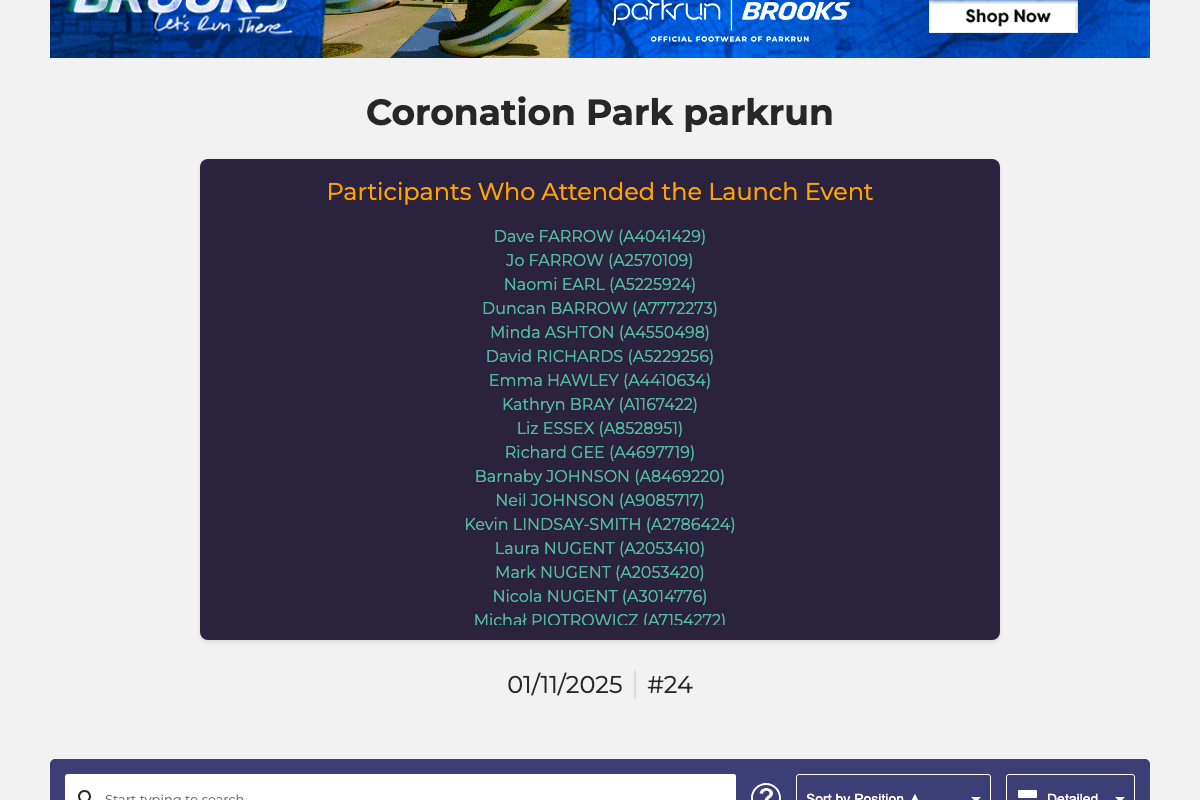
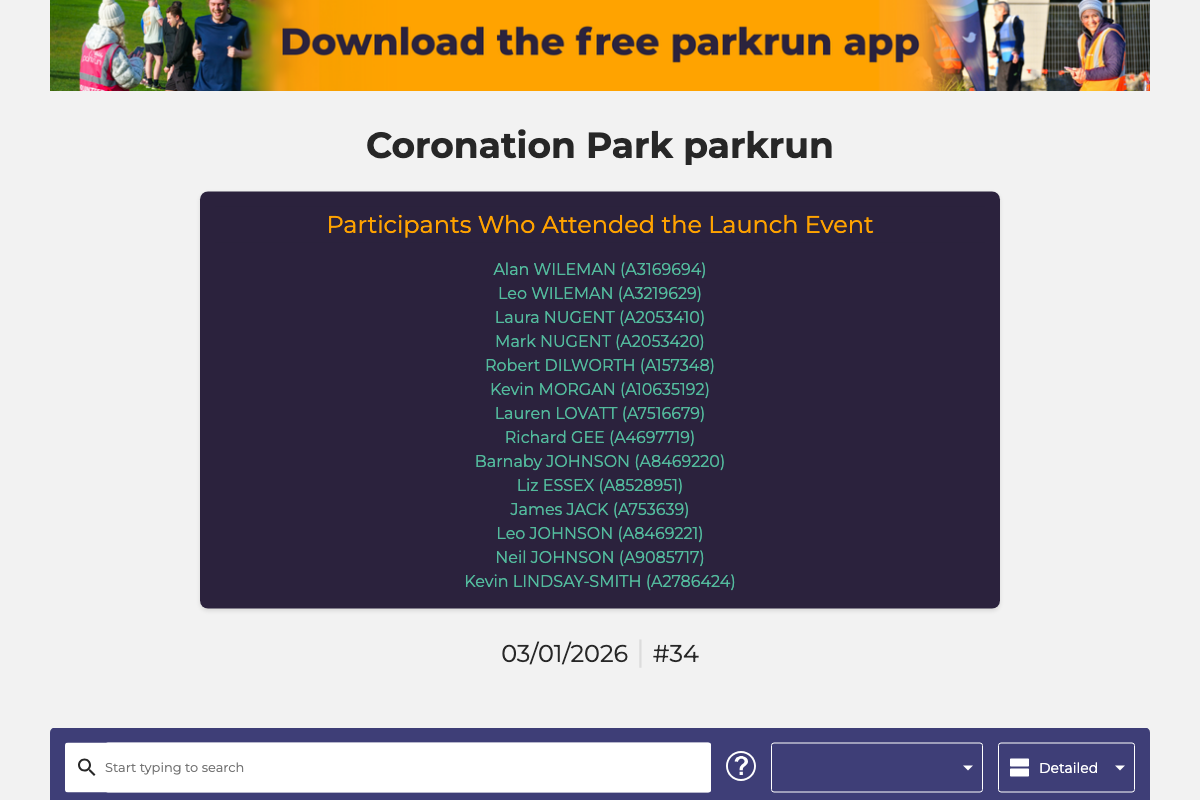
Add parkrun Annual Summary script to documentation
- Add parkrun-annual-summary.user.js entry to docs/_data/scripts.yml
- Document Annual Summary feature on docs/scripts.md
- Add screenshot generation config for Annual Summary
- Generate updated screenshots for all scripts including new Annual Summary

Changed region(s): [[0.0308, 0.0, 0.9558, 0.875], [0.0308, 0.9062, 0.9558, 1.0]]

diff --git a/scripts/generate-screenshots.ts b/scripts/generate-screenshots.ts
@@ -55,6 +55,14 @@ const screenshotConfigs: ScreenshotConfig[] = [
     viewport: { width: 1200, height: 800 },
   },
   {
+    name: 'parkrun-annual-summary',
+    url: 'https://www.parkrun.com.au/maribyrnong/results/eventhistory/',
+    script: 'parkrun-annual-summary.user.js',
+    waitForSelector: '.parkrun-annual-summary',
+    waitForTimeout: 9000,
+    viewport: { width: 1200, height: 1400 },
+  },
+  {
     name: 'parkrun-walker-analysis',
     url: 'https://www.parkrun.co.za/pigglywiggly/results/latestresults/',
     script: 'parkrun-walker-analysis.user.js',

diff --git a/docs/scripts.md b/docs/scripts.md
@@ -48,6 +48,16 @@
 
 [Install parkrun-charts.user.js](https://raw.githubusercontent.com/johnsyweb/tampermonkey-parkrun/refs/heads/main/parkrun-charts.user.js)
 
+### Annual Summary
+
+> Adds annual participation summaries to event history pages: totals, averages, min/max for finishers and volunteers, year-over-year growth, interactive charts, download option, and multi-event comparisons with nearby parkruns.
+
+![Annual Summary Screenshot](../images/parkrun-annual-summary.png)
+
+**Demo page**: [https://www.parkrun.com.au/maribyrnong/results/eventhistory/](https://www.parkrun.com.au/maribyrnong/results/eventhistory/)
+
+[Install parkrun-annual-summary.user.js](https://raw.githubusercontent.com/johnsyweb/tampermonkey-parkrun/refs/heads/main/parkrun-annual-summary.user.js)
+
 ### Walker Analysis
 
 > Highlight and summarise walkers (>=50:00) and compare with faster participants on parkrun results pages. Includes analysis by gender, parkrun experience, volunteer status, and age group.
